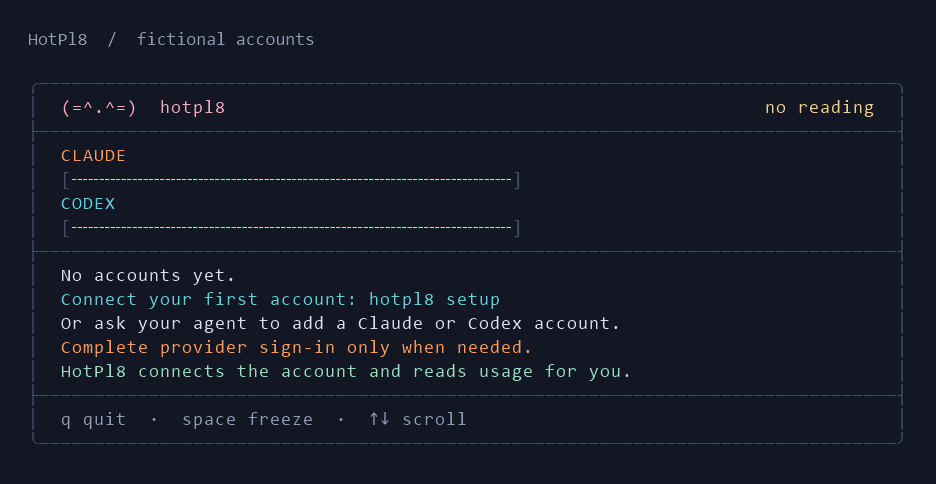
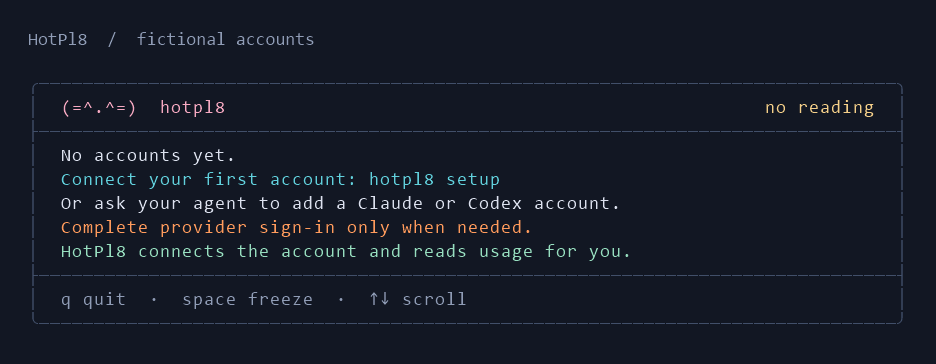
Draw no overview bar for a provider without an account
The overview drew a heading and bar for every registered provider. A
provider with no enabled account (none enrolled, or every one disabled)
showed an all-dashed bar, the sign for capacity that cannot be read,
where there was nothing to read. It is now named only in the account
list as "0 subscriptions". A provider whose accounts exist but cannot be
read keeps its dashed bar, and a frame with no provider left to show
drops the empty overview and its rule, giving the row to the accounts.

The rule is by account count, so it holds for Claude, Codex and any
other registered provider. 12 of 165 parity frames change, each only by
losing such a heading, its dashed bar, or a doubled rule; status,
explain, the tray and the seeded variations are unchanged.

diff --git a/native/src/dashboard.rs b/native/src/dashboard.rs
@@ -976,6 +976,12 @@ impl Pass<'_> {
         let overview = if cached.t()? { cached } else { provider_overview(self.status, self.policy, self.now)? };
         let mut out = Vec::new();
         for (id, p) in overview.props()? {
+            // A provider with no enabled account has nothing to measure: an all-dashed bar
+            // would say its capacity cannot be read. The account list names it instead.
+            let accounts = p.g("accounts")?;
+            if accounts.n().is_some() && accounts.eq_i(0)? {
+                continue;
+            }
             let Some(provider) = self.providers.iter().find(|provider| *provider.id == *id) else { return unreadable() };
             let name = p.g("name")?;
             let title = if name.t()? { upper(&name_text(&name)?)? } else { upper(&id)? };
@@ -1141,7 +1147,9 @@ pub fn frame(status: &V, policy: &V, now: Dto, view: &View, tweens: &mut Tweens)
             }
         }
     }
-    let available = (height as i64 - 7 - summary.len() as i64 - cat.len() as i64).max(1) as usize;
+    // Seven rows of borders, title and footer; six when there is no overview to rule off.
+    let chrome = if summary.is_empty() { 6 } else { 7 };
+    let available = (height as i64 - chrome - summary.len() as i64 - cat.len() as i64).max(1) as usize;
     let page_of = |count: usize, at: usize| if count > available { format!("[{}-{}/{count}]", at + 1, count.min(at + available)) } else { String::new() };
     let resolved = |count: usize| view.offset.min(count.saturating_sub(available));
     // A single recent event must appear somewhere: list it when the footer has no room.
@@ -1166,8 +1174,10 @@ pub fn frame(status: &V, policy: &V, now: Dto, view: &View, tweens: &mut Tweens)
     let mut lines = vec![rule('╭', '╮'), edged(title(status, now, inside, view, motion, automation.as_ref())?, border)];
     lines.extend(cat.into_iter().map(|line| edged(line, border)));
     lines.push(rule('├', '┤'));
-    lines.extend(summary.into_iter().map(|line| edged(line, border)));
-    lines.push(rule('├', '┤'));
+    if !summary.is_empty() {
+        lines.extend(summary.into_iter().map(|line| edged(line, border)));
+        lines.push(rule('├', '┤'));
+    }
     // A thumb in the right border shows where the details viewport sits.
     let count = rows.len();
     let (mut thumb, mut thumb_at) = (0, 0);
@@ -1606,6 +1616,75 @@ pub mod tests {
         frame.lines.iter().filter(flies).map(|line| paint::text(&line.spans)).collect()
     }
 
+    /// The provider named over each bar of the overview, in order.
+    fn overview_titles(frame: &Frame) -> Vec<String> {
+        let shown = rows(frame);
+        shown.windows(2).filter(|pair| pair[1].starts_with("  [")).map(|pair| pair[0].split_whitespace().next().unwrap_or("").to_owned()).collect()
+    }
+
+    /// Whether two rules follow each other anywhere in the frame.
+    fn doubled_rule(frame: &Frame) -> bool {
+        rows(frame).windows(2).any(|pair| pair[0] == "├┤" && pair[1] == "├┤")
+    }
+
+    #[test]
+    fn a_provider_without_an_account_has_no_bar_in_the_overview() {
+        // Claude enrolled, no Codex account: only Claude is measured at the top, and the
+        // account list still says Codex has none.
+        let main = FLEET.split_once(r#"{"codex":{"slots":["#).unwrap().1.split_once(r#"],"recommendedSlot""#).unwrap().0;
+        let no_codex = with(&with(FLEET, main, ""), r#""recommendedSlot":"main""#, r#""recommendedSlot":null"#);
+        let claude_only = fleet_drawn(&no_codex, &with(FLEET_POLICY, r#""slots":[{"id":"main","label":"Main"}]"#, r#""slots":[]"#), &terminal(100, 100));
+        assert_eq!(overview_titles(&claude_only), ["CLAUDE"]);
+        let text = page(&claude_only);
+        assert!(text.contains("CODEX  /  0 subscriptions") && text.contains("none enrolled yet"), "{text}");
+        assert!(!doubled_rule(&claude_only));
+        // The same for the other provider: Codex enrolled, no Claude account.
+        let no_claude = format!("{},\"slots\":[]}}", FLEET.split_once(r#","slots":[{"reset7d""#).unwrap().0);
+        let codex_only = fleet_drawn(&no_claude, r#"{"codex":{"defaultMeter":"codex","slots":[{"id":"main","label":"Main"}]}}"#, &terminal(100, 100));
+        assert_eq!(overview_titles(&codex_only), ["CODEX"]);
+        assert!(page(&codex_only).contains("CLAUDE  /  0 subscriptions"));
+        assert!(!doubled_rule(&codex_only));
+        // Both enrolled: both are measured, in their order.
+        assert_eq!(overview_titles(&fleet_drawn(FLEET, FLEET_POLICY, &terminal(100, 100))), ["CLAUDE", "CODEX"]);
+    }
+
+    #[test]
+    fn a_provider_whose_every_account_is_disabled_has_no_bar_either() {
+        let claude_off = with(FLEET_POLICY, r#""reserve":[1],"#, r#""reserve":[1],"disabled":[1,2,3],"#);
+        assert_eq!(overview_titles(&fleet_drawn(FLEET, &claude_off, &terminal(100, 100))), ["CODEX"]);
+        let codex_off = with(FLEET_POLICY, r#""defaultMeter":"codex","#, r#""defaultMeter":"codex","disabled":["main"],"#);
+        assert_eq!(overview_titles(&fleet_drawn(FLEET, &codex_off, &terminal(100, 100))), ["CLAUDE"]);
+        // Nothing left to measure: no overview, and no empty section ruled off for it.
+        let all_off = with(&claude_off, r#""defaultMeter":"codex","#, r#""defaultMeter":"codex","disabled":["main"],"#);
+        let frame = fleet_drawn(FLEET, &all_off, &terminal(100, 40));
+        assert!(overview_titles(&frame).is_empty(), "{}", page(&frame));
+        assert!(!doubled_rule(&frame), "{}", page(&frame));
+    }
+
+    #[test]
+    fn a_provider_whose_accounts_cannot_be_read_keeps_its_dashed_bar() {
+        // Accounts enrolled but never read: there is something to measure and it is unknown,
+        // which is what the dashed bar says. Only a provider with no account loses its bar.
+        let unread = r#"{"active":3,"generatedAt":"2026-09-10T12:00:00.0000000+00:00","slots":[],"providers":{"codex":{"slots":[]}}}"#;
+        let frame = fleet_drawn(unread, FLEET_POLICY, &terminal(100, 100));
+        assert_eq!(overview_titles(&frame), ["CLAUDE", "CODEX"], "{}", page(&frame));
+        let shown = rows(&frame);
+        let bars: Vec<&String> = shown.iter().filter(|row| row.starts_with("  [")).collect();
+        assert!(bars.len() == 2 && bars.iter().all(|bar| bar.contains('╌')), "{bars:?}");
+    }
+
+    #[test]
+    fn a_frame_without_an_overview_gives_its_row_to_the_accounts() {
+        let none = r#"{"codex":{"slots":[]},"prefer":[]}"#;
+        let empty = fleet_drawn(FLEET, none, &terminal(80, 24));
+        // Top rule, title, rule, then rows straight away; every row as wide as the frame.
+        let shown = rows(&empty);
+        assert_eq!(shown[2], "├┤");
+        assert_ne!(shown[3], "├┤");
+        assert!(empty.lines.iter().all(|line| cells(&paint::text(&line.spans)) == 80), "{}", page(&empty));
+        assert!(empty.lines.len() <= 24, "{}", page(&empty));
+    }
+
     #[test]
     fn a_policy_with_no_account_is_shown_how_to_connect_the_first() {
         let first = fleet_drawn("", r#"{"mode":"monitor","prefer":[],"codex":{"slots":[]}}"#, &terminal(80, 24));
@@ -1613,8 +1692,10 @@ pub mod tests {
         // No collector is implied to be running, and with no account there is nothing to
         // switch between: the title stays quiet.
         assert_eq!(shown[1], across(80, "  (=^.^=)  hotpl8", "no reading"));
+        // No provider has an account, so no overview is drawn above the accounts.
+        assert!(overview_titles(&first).is_empty(), "{:?}", overview_titles(&first));
         assert_eq!(
-            shown[8..13],
+            shown[3..8],
             [
                 "  No accounts yet.",
                 "  Connect your first account: hotpl8 setup",

diff --git a/docs/plans/rust-read-side.md b/docs/plans/rust-read-side.md
@@ -318,6 +318,7 @@ Further arguments exist for the tests, and no launcher or script sends them: `--
 | A reset day is named in English | PowerShell used the language of the session |
 | A badge's colour is chosen by comparing ASCII letters without regard to case | PowerShell's comparison folded some letters outside ASCII onto ASCII ones |
 | The escape sequences sent to a terminal are fewer: a colour is named only where it changes, and a blank cell is given no foreground | The cells shown are the same |
+| The overview at the top has a heading and bar only for a provider with at least one enabled account | PowerShell drew one for every registered provider, so a provider with no account, or with every account disabled, showed an all-dashed bar: the sign for capacity that cannot be read, where there was nothing to read. Such a provider is named only in the account list, as `0 subscriptions`. A provider whose accounts cannot be read keeps its dashed bar. With no provider left to show, the overview and the rule under it are left out. The same fault the tray and `explain` lost with "No line for an account, a decision or a reserve that is not there" |
 | A row that has stopped moving is drawn once more, at rest | PowerShell left it as it last moved until the next layout, up to a second later |
 | The policy is checked every second, as `status` checks it, and `display.noColor` takes effect while the dashboard is open | PowerShell read the policy every second without checking it, and read `display.noColor` once, when the dashboard opened. A `-PreviewPolicy` file is read every second too; PowerShell read it once |
 | State that cannot be read while the dashboard is open leaves the last frame in place for 5 seconds and then shows the reason, until it can be read again | An error in PowerShell's layout worker ended the dashboard |
